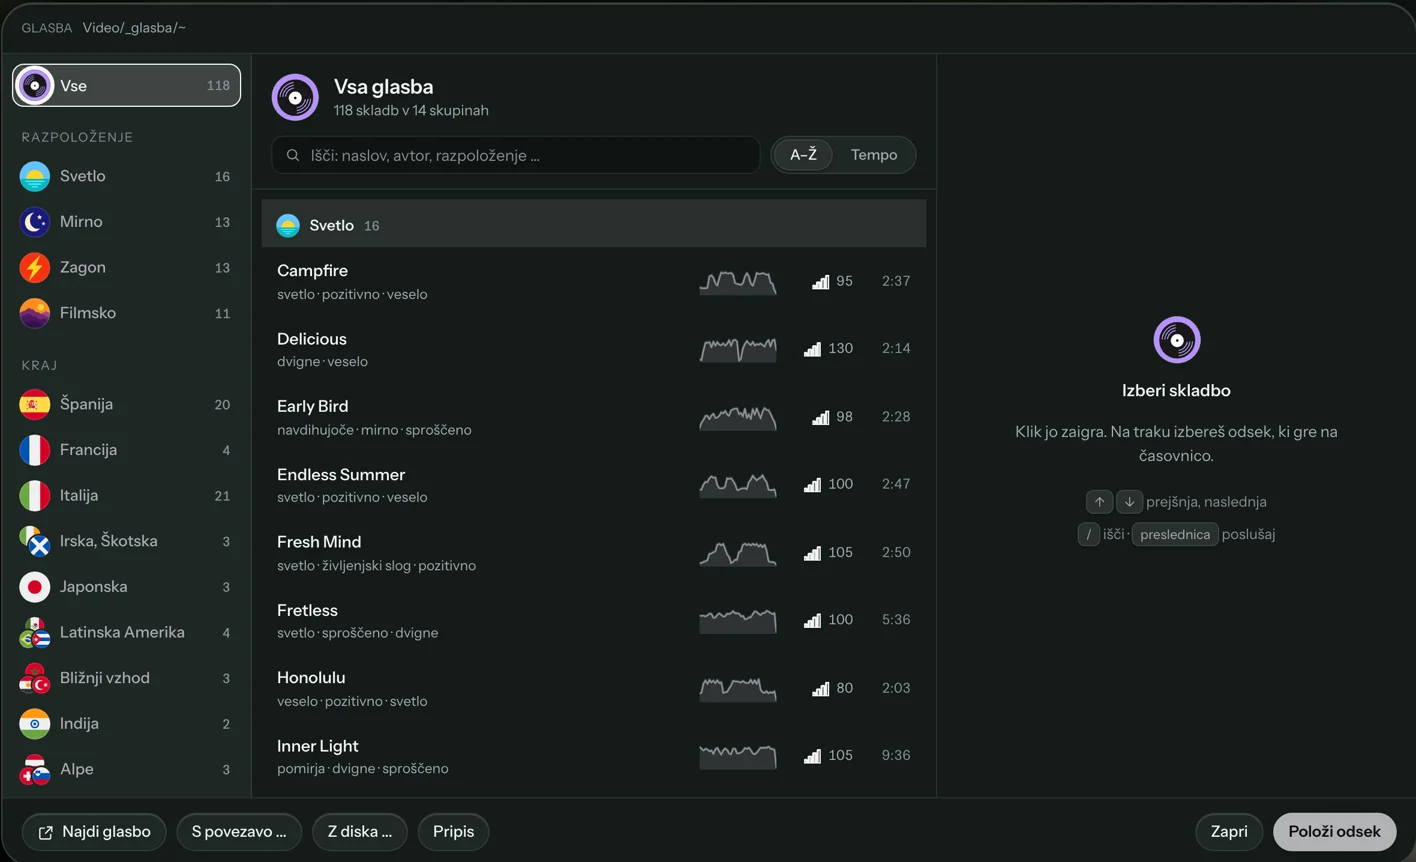
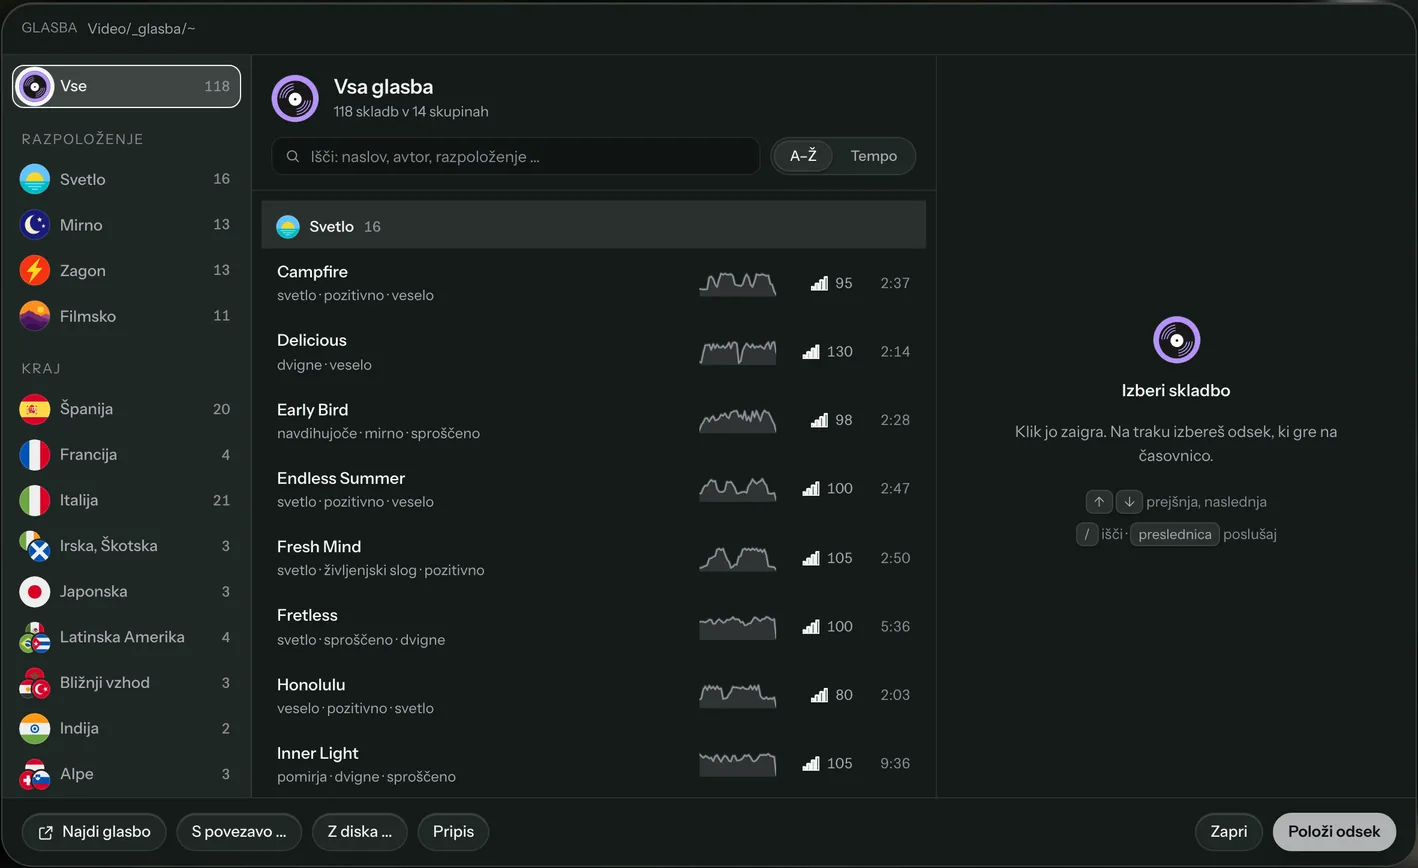
Vmesnik na strani: angleški zasloni za angleško stran, oba jezika z vmesnikom 0.2.0
- novi zajemi Wayfare Studia (Pro, postavitev Edit) v 3840×2160 za oba jezika;
  koščki v media/kosi/en in media/kosi/sl, izrezi in pomanjšava kot prej (0,6)
- angleška stran uporablja kosi/en (jezik_kosi), slovenska ostane na kosi/sl
- okno z glasbo in okno pregleda sta za nekaj pik večja; poudarek gumba
  Izvozi/Export je na novem mestu (levo od gumba ⋯), po jeziku
- naslovi koščkov imajo ?v=2, da obiskovalci s starimi slikami v
  predpomnilniku (7 dni) ne vidijo mešanice starih in novih

diff --git a/stran/predloga.html b/stran/predloga.html
@@ -115,15 +115,15 @@
       <div class="oder" data-oder>
         <div class="kamera" data-kamera>
         <figure class="okno" data-okno role="img" aria-label="{{okno_oznaka}}">
-          <img class="okno-osnova okno-mehka" src="{{koren}}media/kosi/{{jezik_kosi}}/osnova-mehka.webp" alt="" data-osnova-mehka>
-          <img class="okno-osnova okno-cista" src="{{koren}}media/kosi/{{jezik_kosi}}/osnova.webp" alt="" loading="lazy" data-osnova-cista>
+          <img class="okno-osnova okno-mehka" src="{{koren}}media/kosi/{{jezik_kosi}}/osnova-mehka.webp?v=2" alt="" data-osnova-mehka>
+          <img class="okno-osnova okno-cista" src="{{koren}}media/kosi/{{jezik_kosi}}/osnova.webp?v=2" alt="" loading="lazy" data-osnova-cista>
 
-          <img class="kos" data-kos="casovnica" src="{{koren}}media/kosi/{{jezik_kosi}}/casovnica.webp" alt="" loading="lazy" style="left:1.0417%;top:69.444%;width:97.917%">
-          <img class="kos" data-kos="katalog" src="{{koren}}media/kosi/{{jezik_kosi}}/katalog.webp" alt="" loading="lazy" style="left:76.042%;top:6.667%;width:22.917%">
-          <img class="kos" data-kos="predogled" src="{{koren}}media/kosi/{{jezik_kosi}}/predogled.webp" alt="" loading="lazy" style="left:1.0417%;top:6.667%;width:74.219%">
-          <img class="kos" data-kos="podatki" src="{{koren}}media/kosi/{{jezik_kosi}}/podatki.webp" alt="" loading="lazy" style="left:1.0417%;top:61.111%;width:74.219%">
-          <img class="kos" data-kos="lastnosti" src="{{koren}}media/kosi/{{jezik_kosi}}/lastnosti.webp" alt="" loading="lazy" style="left:76.042%;top:43.981%;width:22.917%">
-          <img class="kos" data-kos="vrstica" src="{{koren}}media/kosi/{{jezik_kosi}}/vrstica.webp" alt="" loading="lazy" style="left:0;top:0.926%;width:100%">
+          <img class="kos" data-kos="casovnica" src="{{koren}}media/kosi/{{jezik_kosi}}/casovnica.webp?v=2" alt="" loading="lazy" style="left:1.0417%;top:69.444%;width:97.917%">
+          <img class="kos" data-kos="katalog" src="{{koren}}media/kosi/{{jezik_kosi}}/katalog.webp?v=2" alt="" loading="lazy" style="left:76.042%;top:6.667%;width:22.917%">
+          <img class="kos" data-kos="predogled" src="{{koren}}media/kosi/{{jezik_kosi}}/predogled.webp?v=2" alt="" loading="lazy" style="left:1.0417%;top:6.667%;width:74.219%">
+          <img class="kos" data-kos="podatki" src="{{koren}}media/kosi/{{jezik_kosi}}/podatki.webp?v=2" alt="" loading="lazy" style="left:1.0417%;top:61.111%;width:74.219%">
+          <img class="kos" data-kos="lastnosti" src="{{koren}}media/kosi/{{jezik_kosi}}/lastnosti.webp?v=2" alt="" loading="lazy" style="left:76.042%;top:43.981%;width:22.917%">
+          <img class="kos" data-kos="vrstica" src="{{koren}}media/kosi/{{jezik_kosi}}/vrstica.webp?v=2" alt="" loading="lazy" style="left:0;top:0.926%;width:100%">
 
           <div class="prek-video" data-prek-video>
             <video muted playsinline loop preload="none" poster="{{koren}}media/zanka-3d-milano.jpg" data-src="{{koren}}media/zanka-3d-milano.mp4"></video>
@@ -140,8 +140,8 @@
           <span class="poudarek poudarek-a1" data-poudarek-a1></span>
           <span class="poudarek poudarek-izvoz" data-poudarek-izvoz></span>
 
-          <img class="kos kos-modal" data-kos="glasba" src="{{koren}}media/kosi/{{jezik_kosi}}/glasba.webp" alt="" loading="lazy" style="left:19.219%;top:16.481%;width:61.458%">
-          <img class="kos kos-modal" data-kos="pregled" src="{{koren}}media/kosi/{{jezik_kosi}}/pregled.webp" alt="" loading="lazy" style="left:30.156%;top:8.611%;width:39.896%">
+          <img class="kos kos-modal" data-kos="glasba" src="{{koren}}media/kosi/{{jezik_kosi}}/glasba.webp?v=2" alt="" loading="lazy" style="left:19.219%;top:16.481%;width:61.563%">
+          <img class="kos kos-modal" data-kos="pregled" src="{{koren}}media/kosi/{{jezik_kosi}}/pregled.webp?v=2" alt="" loading="lazy" style="left:30.156%;top:8.611%;width:39.896%">
         </figure>
         </div>
       </div>

diff --git a/objava/sl/index.html b/objava/sl/index.html
@@ -178,15 +178,15 @@
       <div class="oder" data-oder>
         <div class="kamera" data-kamera>
         <figure class="okno" data-okno role="img" aria-label="Urejevalnik Wayfare Studio, ki se sestavlja kos za kosom">
-          <img class="okno-osnova okno-mehka" src="../media/kosi/sl/osnova-mehka.webp" alt="" data-osnova-mehka>
-          <img class="okno-osnova okno-cista" src="../media/kosi/sl/osnova.webp" alt="" loading="lazy" data-osnova-cista>
+          <img class="okno-osnova okno-mehka" src="../media/kosi/sl/osnova-mehka.webp?v=2" alt="" data-osnova-mehka>
+          <img class="okno-osnova okno-cista" src="../media/kosi/sl/osnova.webp?v=2" alt="" loading="lazy" data-osnova-cista>
 
-          <img class="kos" data-kos="casovnica" src="../media/kosi/sl/casovnica.webp" alt="" loading="lazy" style="left:1.0417%;top:69.444%;width:97.917%">
-          <img class="kos" data-kos="katalog" src="../media/kosi/sl/katalog.webp" alt="" loading="lazy" style="left:76.042%;top:6.667%;width:22.917%">
-          <img class="kos" data-kos="predogled" src="../media/kosi/sl/predogled.webp" alt="" loading="lazy" style="left:1.0417%;top:6.667%;width:74.219%">
-          <img class="kos" data-kos="podatki" src="../media/kosi/sl/podatki.webp" alt="" loading="lazy" style="left:1.0417%;top:61.111%;width:74.219%">
-          <img class="kos" data-kos="lastnosti" src="../media/kosi/sl/lastnosti.webp" alt="" loading="lazy" style="left:76.042%;top:43.981%;width:22.917%">
-          <img class="kos" data-kos="vrstica" src="../media/kosi/sl/vrstica.webp" alt="" loading="lazy" style="left:0;top:0.926%;width:100%">
+          <img class="kos" data-kos="casovnica" src="../media/kosi/sl/casovnica.webp?v=2" alt="" loading="lazy" style="left:1.0417%;top:69.444%;width:97.917%">
+          <img class="kos" data-kos="katalog" src="../media/kosi/sl/katalog.webp?v=2" alt="" loading="lazy" style="left:76.042%;top:6.667%;width:22.917%">
+          <img class="kos" data-kos="predogled" src="../media/kosi/sl/predogled.webp?v=2" alt="" loading="lazy" style="left:1.0417%;top:6.667%;width:74.219%">
+          <img class="kos" data-kos="podatki" src="../media/kosi/sl/podatki.webp?v=2" alt="" loading="lazy" style="left:1.0417%;top:61.111%;width:74.219%">
+          <img class="kos" data-kos="lastnosti" src="../media/kosi/sl/lastnosti.webp?v=2" alt="" loading="lazy" style="left:76.042%;top:43.981%;width:22.917%">
+          <img class="kos" data-kos="vrstica" src="../media/kosi/sl/vrstica.webp?v=2" alt="" loading="lazy" style="left:0;top:0.926%;width:100%">
 
           <div class="prek-video" data-prek-video>
             <video muted playsinline loop preload="none" poster="../media/zanka-3d-milano.jpg" data-src="../media/zanka-3d-milano.mp4"></video>
@@ -226,8 +226,8 @@
           <span class="poudarek poudarek-a1" data-poudarek-a1></span>
           <span class="poudarek poudarek-izvoz" data-poudarek-izvoz></span>
 
-          <img class="kos kos-modal" data-kos="glasba" src="../media/kosi/sl/glasba.webp" alt="" loading="lazy" style="left:19.219%;top:16.481%;width:61.458%">
-          <img class="kos kos-modal" data-kos="pregled" src="../media/kosi/sl/pregled.webp" alt="" loading="lazy" style="left:30.156%;top:8.611%;width:39.896%">
+          <img class="kos kos-modal" data-kos="glasba" src="../media/kosi/sl/glasba.webp?v=2" alt="" loading="lazy" style="left:19.219%;top:16.481%;width:61.563%">
+          <img class="kos kos-modal" data-kos="pregled" src="../media/kosi/sl/pregled.webp?v=2" alt="" loading="lazy" style="left:30.156%;top:8.611%;width:39.896%">
         </figure>
         </div>
       </div>

diff --git a/stran/sl/index.html b/stran/sl/index.html
@@ -178,15 +178,15 @@
       <div class="oder" data-oder>
         <div class="kamera" data-kamera>
         <figure class="okno" data-okno role="img" aria-label="Urejevalnik Wayfare Studio, ki se sestavlja kos za kosom">
-          <img class="okno-osnova okno-mehka" src="../media/kosi/sl/osnova-mehka.webp" alt="" data-osnova-mehka>
-          <img class="okno-osnova okno-cista" src="../media/kosi/sl/osnova.webp" alt="" loading="lazy" data-osnova-cista>
+          <img class="okno-osnova okno-mehka" src="../media/kosi/sl/osnova-mehka.webp?v=2" alt="" data-osnova-mehka>
+          <img class="okno-osnova okno-cista" src="../media/kosi/sl/osnova.webp?v=2" alt="" loading="lazy" data-osnova-cista>
 
-          <img class="kos" data-kos="casovnica" src="../media/kosi/sl/casovnica.webp" alt="" loading="lazy" style="left:1.0417%;top:69.444%;width:97.917%">
-          <img class="kos" data-kos="katalog" src="../media/kosi/sl/katalog.webp" alt="" loading="lazy" style="left:76.042%;top:6.667%;width:22.917%">
-          <img class="kos" data-kos="predogled" src="../media/kosi/sl/predogled.webp" alt="" loading="lazy" style="left:1.0417%;top:6.667%;width:74.219%">
-          <img class="kos" data-kos="podatki" src="../media/kosi/sl/podatki.webp" alt="" loading="lazy" style="left:1.0417%;top:61.111%;width:74.219%">
-          <img class="kos" data-kos="lastnosti" src="../media/kosi/sl/lastnosti.webp" alt="" loading="lazy" style="left:76.042%;top:43.981%;width:22.917%">
-          <img class="kos" data-kos="vrstica" src="../media/kosi/sl/vrstica.webp" alt="" loading="lazy" style="left:0;top:0.926%;width:100%">
+          <img class="kos" data-kos="casovnica" src="../media/kosi/sl/casovnica.webp?v=2" alt="" loading="lazy" style="left:1.0417%;top:69.444%;width:97.917%">
+          <img class="kos" data-kos="katalog" src="../media/kosi/sl/katalog.webp?v=2" alt="" loading="lazy" style="left:76.042%;top:6.667%;width:22.917%">
+          <img class="kos" data-kos="predogled" src="../media/kosi/sl/predogled.webp?v=2" alt="" loading="lazy" style="left:1.0417%;top:6.667%;width:74.219%">
+          <img class="kos" data-kos="podatki" src="../media/kosi/sl/podatki.webp?v=2" alt="" loading="lazy" style="left:1.0417%;top:61.111%;width:74.219%">
+          <img class="kos" data-kos="lastnosti" src="../media/kosi/sl/lastnosti.webp?v=2" alt="" loading="lazy" style="left:76.042%;top:43.981%;width:22.917%">
+          <img class="kos" data-kos="vrstica" src="../media/kosi/sl/vrstica.webp?v=2" alt="" loading="lazy" style="left:0;top:0.926%;width:100%">
 
           <div class="prek-video" data-prek-video>
             <video muted playsinline loop preload="none" poster="../media/zanka-3d-milano.jpg" data-src="../media/zanka-3d-milano.mp4"></video>
@@ -226,8 +226,8 @@
           <span class="poudarek poudarek-a1" data-poudarek-a1></span>
           <span class="poudarek poudarek-izvoz" data-poudarek-izvoz></span>
 
-          <img class="kos kos-modal" data-kos="glasba" src="../media/kosi/sl/glasba.webp" alt="" loading="lazy" style="left:19.219%;top:16.481%;width:61.458%">
-          <img class="kos kos-modal" data-kos="pregled" src="../media/kosi/sl/pregled.webp" alt="" loading="lazy" style="left:30.156%;top:8.611%;width:39.896%">
+          <img class="kos kos-modal" data-kos="glasba" src="../media/kosi/sl/glasba.webp?v=2" alt="" loading="lazy" style="left:19.219%;top:16.481%;width:61.563%">
+          <img class="kos kos-modal" data-kos="pregled" src="../media/kosi/sl/pregled.webp?v=2" alt="" loading="lazy" style="left:30.156%;top:8.611%;width:39.896%">
         </figure>
         </div>
       </div>

diff --git a/objava/index.html b/objava/index.html
@@ -178,15 +178,15 @@
       <div class="oder" data-oder>
         <div class="kamera" data-kamera>
         <figure class="okno" data-okno role="img" aria-label="The Wayfare Studio editor, assembling piece by piece">
-          <img class="okno-osnova okno-mehka" src="media/kosi/sl/osnova-mehka.webp" alt="" data-osnova-mehka>
-          <img class="okno-osnova okno-cista" src="media/kosi/sl/osnova.webp" alt="" loading="lazy" data-osnova-cista>
+          <img class="okno-osnova okno-mehka" src="media/kosi/en/osnova-mehka.webp?v=2" alt="" data-osnova-mehka>
+          <img class="okno-osnova okno-cista" src="media/kosi/en/osnova.webp?v=2" alt="" loading="lazy" data-osnova-cista>
 
-          <img class="kos" data-kos="casovnica" src="media/kosi/sl/casovnica.webp" alt="" loading="lazy" style="left:1.0417%;top:69.444%;width:97.917%">
-          <img class="kos" data-kos="katalog" src="media/kosi/sl/katalog.webp" alt="" loading="lazy" style="left:76.042%;top:6.667%;width:22.917%">
-          <img class="kos" data-kos="predogled" src="media/kosi/sl/predogled.webp" alt="" loading="lazy" style="left:1.0417%;top:6.667%;width:74.219%">
-          <img class="kos" data-kos="podatki" src="media/kosi/sl/podatki.webp" alt="" loading="lazy" style="left:1.0417%;top:61.111%;width:74.219%">
-          <img class="kos" data-kos="lastnosti" src="media/kosi/sl/lastnosti.webp" alt="" loading="lazy" style="left:76.042%;top:43.981%;width:22.917%">
-          <img class="kos" data-kos="vrstica" src="media/kosi/sl/vrstica.webp" alt="" loading="lazy" style="left:0;top:0.926%;width:100%">
+          <img class="kos" data-kos="casovnica" src="media/kosi/en/casovnica.webp?v=2" alt="" loading="lazy" style="left:1.0417%;top:69.444%;width:97.917%">
+          <img class="kos" data-kos="katalog" src="media/kosi/en/katalog.webp?v=2" alt="" loading="lazy" style="left:76.042%;top:6.667%;width:22.917%">
+          <img class="kos" data-kos="predogled" src="media/kosi/en/predogled.webp?v=2" alt="" loading="lazy" style="left:1.0417%;top:6.667%;width:74.219%">
+          <img class="kos" data-kos="podatki" src="media/kosi/en/podatki.webp?v=2" alt="" loading="lazy" style="left:1.0417%;top:61.111%;width:74.219%">
+          <img class="kos" data-kos="lastnosti" src="media/kosi/en/lastnosti.webp?v=2" alt="" loading="lazy" style="left:76.042%;top:43.981%;width:22.917%">
+          <img class="kos" data-kos="vrstica" src="media/kosi/en/vrstica.webp?v=2" alt="" loading="lazy" style="left:0;top:0.926%;width:100%">
 
           <div class="prek-video" data-prek-video>
             <video muted playsinline loop preload="none" poster="media/zanka-3d-milano.jpg" data-src="media/zanka-3d-milano.mp4"></video>
@@ -226,8 +226,8 @@
           <span class="poudarek poudarek-a1" data-poudarek-a1></span>
           <span class="poudarek poudarek-izvoz" data-poudarek-izvoz></span>
 
-          <img class="kos kos-modal" data-kos="glasba" src="media/kosi/sl/glasba.webp" alt="" loading="lazy" style="left:19.219%;top:16.481%;width:61.458%">
-          <img class="kos kos-modal" data-kos="pregled" src="media/kosi/sl/pregled.webp" alt="" loading="lazy" style="left:30.156%;top:8.611%;width:39.896%">
+          <img class="kos kos-modal" data-kos="glasba" src="media/kosi/en/glasba.webp?v=2" alt="" loading="lazy" style="left:19.219%;top:16.481%;width:61.563%">
+          <img class="kos kos-modal" data-kos="pregled" src="media/kosi/en/pregled.webp?v=2" alt="" loading="lazy" style="left:30.156%;top:8.611%;width:39.896%">
         </figure>
         </div>
       </div>

diff --git a/stran/index.html b/stran/index.html
@@ -178,15 +178,15 @@
       <div class="oder" data-oder>
         <div class="kamera" data-kamera>
         <figure class="okno" data-okno role="img" aria-label="The Wayfare Studio editor, assembling piece by piece">
-          <img class="okno-osnova okno-mehka" src="media/kosi/sl/osnova-mehka.webp" alt="" data-osnova-mehka>
-          <img class="okno-osnova okno-cista" src="media/kosi/sl/osnova.webp" alt="" loading="lazy" data-osnova-cista>
+          <img class="okno-osnova okno-mehka" src="media/kosi/en/osnova-mehka.webp?v=2" alt="" data-osnova-mehka>
+          <img class="okno-osnova okno-cista" src="media/kosi/en/osnova.webp?v=2" alt="" loading="lazy" data-osnova-cista>
 
-          <img class="kos" data-kos="casovnica" src="media/kosi/sl/casovnica.webp" alt="" loading="lazy" style="left:1.0417%;top:69.444%;width:97.917%">
-          <img class="kos" data-kos="katalog" src="media/kosi/sl/katalog.webp" alt="" loading="lazy" style="left:76.042%;top:6.667%;width:22.917%">
-          <img class="kos" data-kos="predogled" src="media/kosi/sl/predogled.webp" alt="" loading="lazy" style="left:1.0417%;top:6.667%;width:74.219%">
-          <img class="kos" data-kos="podatki" src="media/kosi/sl/podatki.webp" alt="" loading="lazy" style="left:1.0417%;top:61.111%;width:74.219%">
-          <img class="kos" data-kos="lastnosti" src="media/kosi/sl/lastnosti.webp" alt="" loading="lazy" style="left:76.042%;top:43.981%;width:22.917%">
-          <img class="kos" data-kos="vrstica" src="media/kosi/sl/vrstica.webp" alt="" loading="lazy" style="left:0;top:0.926%;width:100%">
+          <img class="kos" data-kos="casovnica" src="media/kosi/en/casovnica.webp?v=2" alt="" loading="lazy" style="left:1.0417%;top:69.444%;width:97.917%">
+          <img class="kos" data-kos="katalog" src="media/kosi/en/katalog.webp?v=2" alt="" loading="lazy" style="left:76.042%;top:6.667%;width:22.917%">
+          <img class="kos" data-kos="predogled" src="media/kosi/en/predogled.webp?v=2" alt="" loading="lazy" style="left:1.0417%;top:6.667%;width:74.219%">
+          <img class="kos" data-kos="podatki" src="media/kosi/en/podatki.webp?v=2" alt="" loading="lazy" style="left:1.0417%;top:61.111%;width:74.219%">
+          <img class="kos" data-kos="lastnosti" src="media/kosi/en/lastnosti.webp?v=2" alt="" loading="lazy" style="left:76.042%;top:43.981%;width:22.917%">
+          <img class="kos" data-kos="vrstica" src="media/kosi/en/vrstica.webp?v=2" alt="" loading="lazy" style="left:0;top:0.926%;width:100%">
 
           <div class="prek-video" data-prek-video>
             <video muted playsinline loop preload="none" poster="media/zanka-3d-milano.jpg" data-src="media/zanka-3d-milano.mp4"></video>
@@ -226,8 +226,8 @@
           <span class="poudarek poudarek-a1" data-poudarek-a1></span>
           <span class="poudarek poudarek-izvoz" data-poudarek-izvoz></span>
 
-          <img class="kos kos-modal" data-kos="glasba" src="media/kosi/sl/glasba.webp" alt="" loading="lazy" style="left:19.219%;top:16.481%;width:61.458%">
-          <img class="kos kos-modal" data-kos="pregled" src="media/kosi/sl/pregled.webp" alt="" loading="lazy" style="left:30.156%;top:8.611%;width:39.896%">
+          <img class="kos kos-modal" data-kos="glasba" src="media/kosi/en/glasba.webp?v=2" alt="" loading="lazy" style="left:19.219%;top:16.481%;width:61.563%">
+          <img class="kos kos-modal" data-kos="pregled" src="media/kosi/en/pregled.webp?v=2" alt="" loading="lazy" style="left:30.156%;top:8.611%;width:39.896%">
         </figure>
         </div>
       </div>

diff --git a/objava/css/slog.css b/objava/css/slog.css
@@ -301,7 +301,9 @@ p { text-wrap: pretty; }
   box-shadow: 0 0 0 0.2cqw var(--accent), 0 0 2.4cqw rgba(100, 226, 214, 0.55);
 }
 .poudarek-a1 { left: 7.4%; top: 84.7%; width: 91.5%; height: 5.7%; }
-.poudarek-izvoz { left: 93.9%; top: 1.5%; width: 5%; height: 3.7%; border-radius: 99px; }
+/* gumb Izvozi je v angleščini (Export) širši kot v slovenščini */
+.poudarek-izvoz { left: 91%; top: 1.5%; width: 5.47%; height: 3.7%; border-radius: 99px; }
+:lang(sl) .poudarek-izvoz { left: 91.4%; width: 5.06%; }
 
 .poglavja { list-style: none; margin: var(--s9) auto 0; padding: 0; display: grid; gap: var(--s8); max-width: 1120px; }
 .napis { position: relative; display: grid; gap: var(--s3); max-width: 34ch; }

diff --git a/stran/css/slog.css b/stran/css/slog.css
@@ -301,7 +301,9 @@ p { text-wrap: pretty; }
   box-shadow: 0 0 0 0.2cqw var(--accent), 0 0 2.4cqw rgba(100, 226, 214, 0.55);
 }
 .poudarek-a1 { left: 7.4%; top: 84.7%; width: 91.5%; height: 5.7%; }
-.poudarek-izvoz { left: 93.9%; top: 1.5%; width: 5%; height: 3.7%; border-radius: 99px; }
+/* gumb Izvozi je v angleščini (Export) širši kot v slovenščini */
+.poudarek-izvoz { left: 91%; top: 1.5%; width: 5.47%; height: 3.7%; border-radius: 99px; }
+:lang(sl) .poudarek-izvoz { left: 91.4%; width: 5.06%; }
 
 .poglavja { list-style: none; margin: var(--s9) auto 0; padding: 0; display: grid; gap: var(--s8); max-width: 1120px; }
 .napis { position: relative; display: grid; gap: var(--s3); max-width: 34ch; }

diff --git a/objava/js/sestavljanje.js b/objava/js/sestavljanje.js
@@ -52,7 +52,7 @@ const OZKO = {
 
 // sredini zvočne sledi A1 in okna z glasbo; sled V1
 const A1 = { x: 0.5315, y: 0.8755 };
-const GLASBA = { x: 0.19219, y: 0.16481, w: 0.61458, h: 1436 / 2160 };
+const GLASBA = { x: 0.19219, y: 0.16481, w: 2364 / 3840, h: 1446 / 2160 };
 const V1 = { y: 0.784, h: 0.047 };
 const TIHO = 0.42;
 

diff --git a/stran/js/sestavljanje.js b/stran/js/sestavljanje.js
@@ -52,7 +52,7 @@ const OZKO = {
 
 // sredini zvočne sledi A1 in okna z glasbo; sled V1
 const A1 = { x: 0.5315, y: 0.8755 };
-const GLASBA = { x: 0.19219, y: 0.16481, w: 0.61458, h: 1436 / 2160 };
+const GLASBA = { x: 0.19219, y: 0.16481, w: 2364 / 3840, h: 1446 / 2160 };
 const V1 = { y: 0.784, h: 0.047 };
 const TIHO = 0.42;
 
